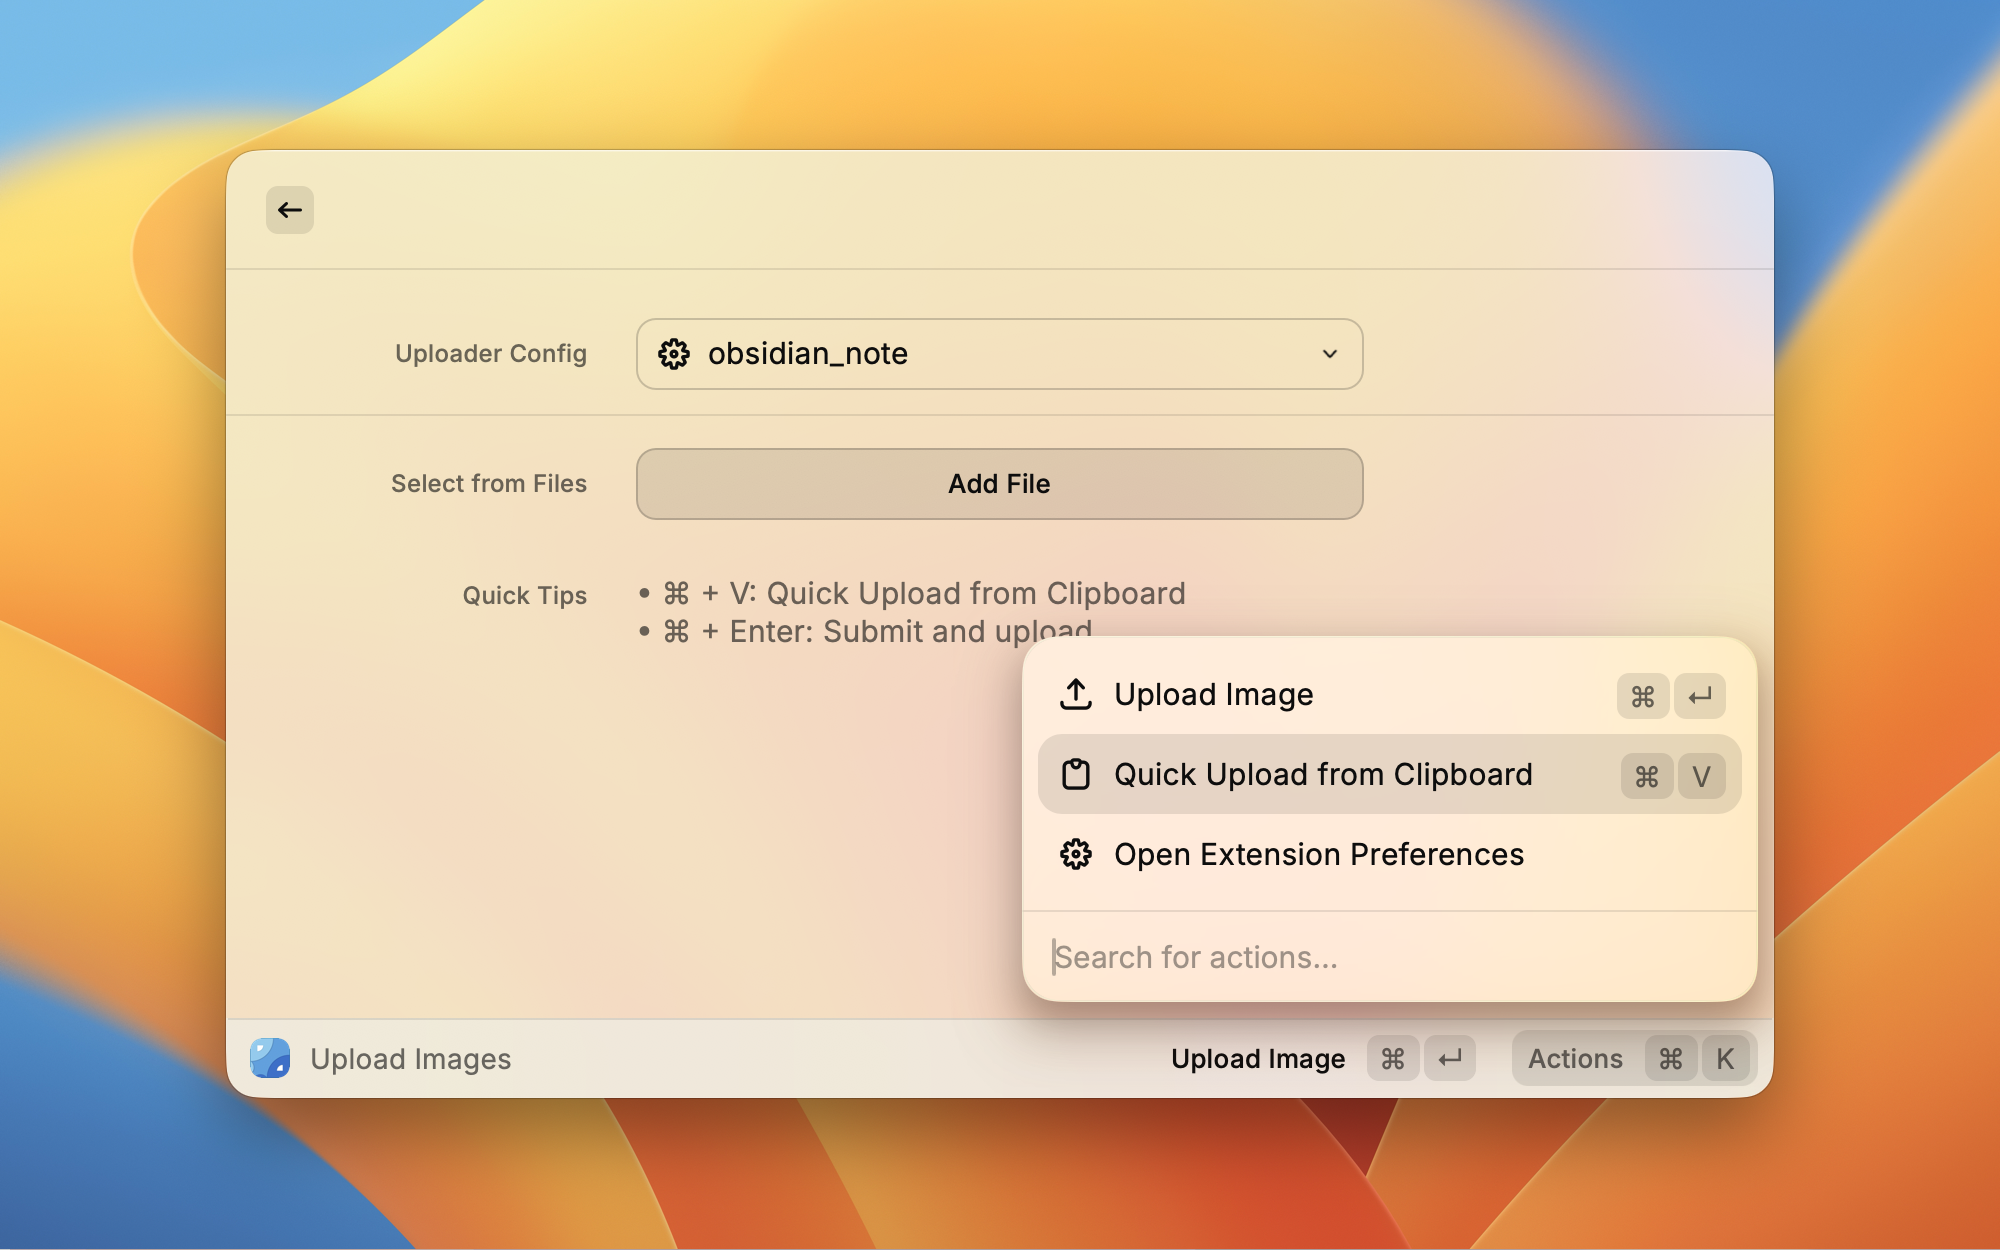
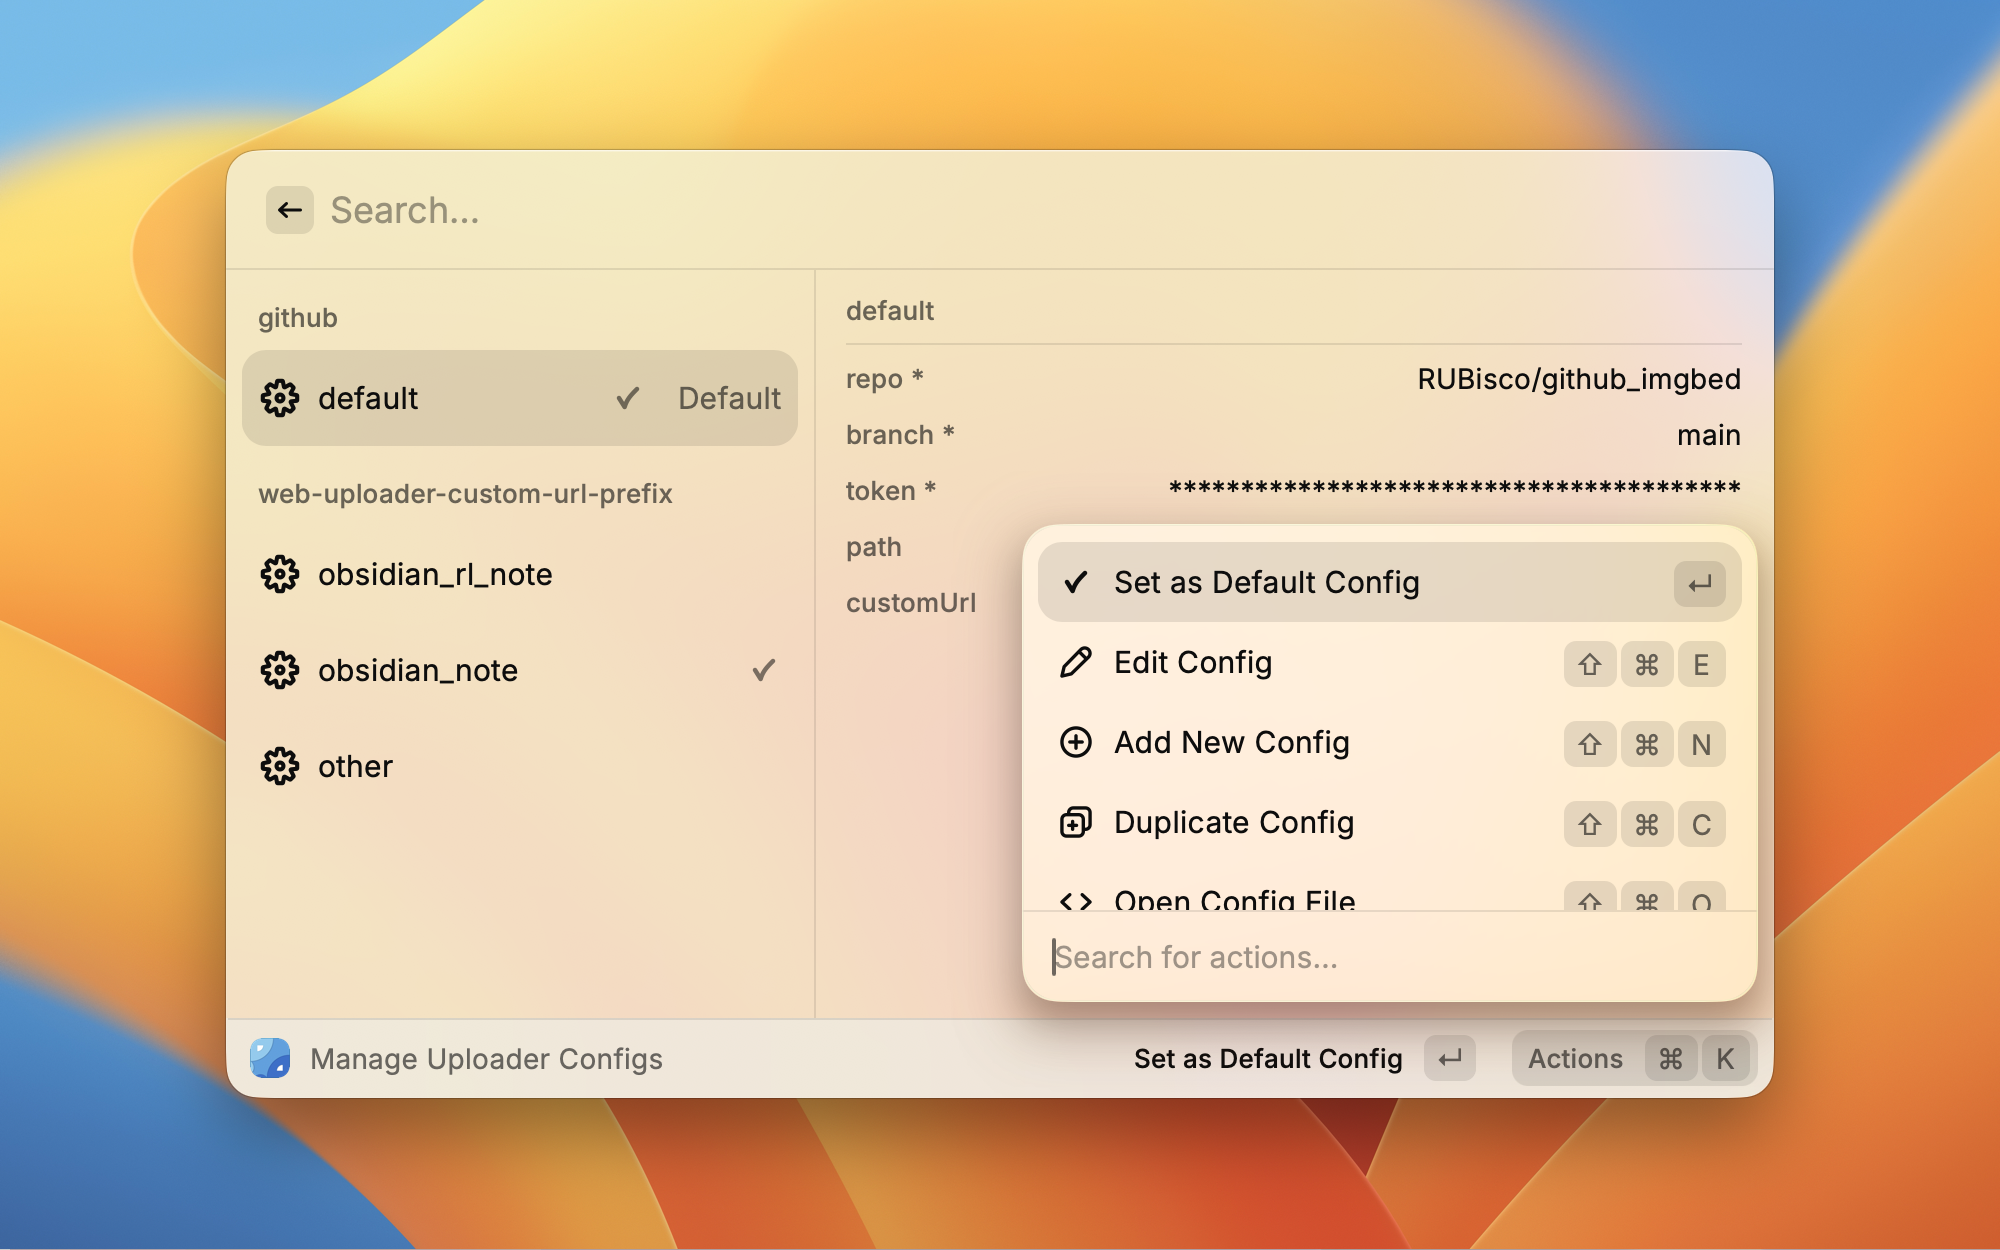
update docs

diff --git a/README.md b/README.md
@@ -1,83 +1,85 @@
 # PicGo for Raycast
 
-[简体中文](./media/README-zh.md)
+<a href="https://www.raycast.com/rubisco0211/picgo" title="Install picgo Raycast Extension"><img src="https://www.raycast.com/rubisco0211/picgo/install_button@2x.png?v=1.1" height="64" style="height: 64px;" alt="" /></a>
 
-A [Raycast](https://www.raycast.com/) extension to upload images to image hosts using [PicGo-Core](https://github.com/PicGo/PicGo-Core) API.
+A [Raycast](https://www.raycast.com/) extension to upload images to image hosts using [PicGo-Core](https://github.com/PicGo/PicGo-Core).
+
+If you speak Chinese, check out [中文文档](https://github.com/RUBisco0211/raycast-extension-picgo/blob/master/media/README-zh.md).
 
 <p align="center">
-  <img src="./media/header.png" alt="">
+<img src="./media/header.png" alt="Header">
 </p>
 
-## How It Works
+## Features
 
-This extension integrates with `picgo` library to handle image uploads.
+- **Upload Images**: Seamlessly upload images from your clipboard or file selection.
+- **Multi-Format Export**: View upload results and copy links in various formats (URL, Markdown, HTML, UBB).
+- **Multi-Config Support**: Switch between different uploader configurations easily within Raycast.
+- **Plugin Management**: Search, install, update, and uninstall PicGo plugins directly from Raycast via NPM.
+- **Uploader Configuration**: Manage your uploader configurations (Url, Access Key, Secret Key, etc.).
 
-- **Configuration Management**: The extension reads your PicGo config file (`~/.picgo/config.json`) to detect installed uploaders and their configurations.You can choose which uploader and config to use from the dropdown menu. The extension persists your selection in **Raycast LocalStorage** and won't change your local config file.
 
-- **Select and Send Images**: Select images (allow multi selection) from file picker or paste from clipboard `Cmd+V`. .
+## Prerequisites
 
-- **Copy Result**: Choose your preferred format (URL, Markdown, HTML, or UBB) and copy to clipboard.
+- **NPM**: This extension requires Node.js. Ensure `npm` is accessible. You can configure the `NPM Path` in the extension preferences if it's not in the default location.
 
-## ScreenShots
+## Commands
 
-### Command `Upload Images` and Actions
+### Upload Images
+
+Select images from the file picker or paste from the clipboard (`Cmd+V`) to upload.
+
+- **Switch Config**: Use the dropdown menu to select the uploader configuration. The config will be remember (in **Raycast LocalStorage** without directly changing your local config file) once you upload some images with it.
+- **Upload from Files or Clipboard**: Supporting multi-image upload from files or clipboard (press `Cmd+V`).
 
 ![Command](./media/picgo-1.png)
 
-### Uploader Configs
+- **Copy Result**: Multi-formats copying supported.
 
-![Config](./media/picgo-2.png)
+![Command](./media/picgo-2.png)
 
-### Shortcuts
+### Manage Uploader Configs
 
-![Shortcuts](./media/picgo-3.png)
+View and manage all your uploader configurations.
 
-### Export Page
+- **Manage**:Add, duplicate, edit or delete a configuration. Press `enter` to set as default uploader config.
 
-![Export](./media/picgo-4.png)
+![Config](./media/picgo-3.png)
 
-## Prerequisites: PicGo Installation and Configuration
+![Config](./media/picgo-4.png)
 
-```shell
-# install picgo-cli
-npm install -g picgo
-# or
-yarn global add picgo
+### Search Plugins
 
+Search for PicGo plugins on NPM to extend uploader functionality.
 
-# install picgo plugins
-picgo install [name]
-# or use npm
-npm install picgo-plugin-[name]
+![Config](./media/picgo-6.png)
 
+### Manage Plugins
 
-# configuration of uploader
-picgo set uploader
-# and
-picgo use uploader
-```
+View installed plugins. You can update, uninstall, or configure them.
 
-For more, check out:
+![Config](./media/picgo-5.png)
 
-- [PicGo-Cli installation](https://docs.picgo.app/core/guide/getting-started#install-globally)
-- [PicGo plugin installation](https://docs.picgo.app/core/guide/commands#install-add)
-- [PicGO-Cli configuration](https://docs.picgo.app/core/guide/config)
+## Preferences
 
-## Keyboard Shortcuts
+| Preference | Description | Default |
+| ---------------- | -------------------------------------------------- | ------- |
+| Upload Timeout | Maximum time (in ms) to wait for upload completion. | 30000 |
+| Upload Proxy | Custom proxy address for uploading images (e.g., `http://127.0.0.1:7890`). | - |
+| NPM Path | Path to the NPM executable (e.g., `/usr/local/bin`). Do not include `/npm` in the path. | - |
+| NPM Proxy | Proxy address for installing plugins via NPM. | - |
+| NPM Mirror | Custom NPM registry mirror (e.g., `https://registry.npmmirror.com`). | - |
 
-| Action                      | Shortcut    |
-| --------------------------- | ----------- |
-| Quick upload from clipboard | `Cmd+V`     |
-| Submit and upload           | `Cmd+Enter` |
-| Copy current format         | `Cmd+C`     |
+## Troubleshooting
 
-## Extension Preferences
+- **"NPM not found"**: Check the `NPM Path` in extension preferences. Run `which npm` in your terminal to find the correct path.
+- **Plugin installation fails**: Try setting a valid `NPM Mirror` or `NPM Proxy` if you have network issues.
 
-| Setting        | Description                                        | Default |
-| -------------- | -------------------------------------------------- | ------- |
-| Upload Timeout | Maximum time (in ms) to wait for upload completion | 30000   |
+## For More
 
-## Limitations
+checkout:
+- [PicGo-Core Documentation](https://docs.picgo.app/core/)
 
-- It does **NOT** support PicGo plugin management - install/remove plugins via PicGo directly
-- It does **NOT** support configuring uploaders - configure them with `picgo set uploader`.
+## License
+
+MIT

diff --git a/media/README-zh.md b/media/README-zh.md
@@ -1,83 +1,83 @@
 # PicGo for Raycast
 
-[English](../README.md)
+<a href="https://www.raycast.com/rubisco0211/picgo" title="Install picgo Raycast Extension"><img src="https://www.raycast.com/rubisco0211/picgo/install_button@2x.png?v=1.1" height="64" style="height: 64px;" alt="" /></a>
 
-一个使用 [PicGo-Core](https://github.com/PicGo/PicGo-Core) API 上传图片到图床的 [Raycast](https://www.raycast.com/) 扩展。
+一个基于 [PicGo-Core](https://github.com/PicGo/PicGo-Core) 的 [Raycast](https://www.raycast.com/) 图片上传扩展。
+
 
 <p align="center">
-  <img src="./header.png" alt="">
+<img src="./header.png" alt="Header">
 </p>
 
-## 工作原理
+## 功能特性
 
-该扩展集成 `picgo` 库来处理图片上传。
+- **图片上传**：无缝支持剪贴板粘贴或文件选择上传。
+- **多格式导出**：支持查看上传历史，并一键复制 URL、Markdown、HTML、UBB 等多种格式。
+- **多配置切换**：在 Raycast 内轻松切换不同的图床配置。
+- **插件管理**：直接通过 NPM 搜索、安装、更新和卸载 PicGo 插件来拓展 uploader type。
+- **配置管理**：在 Raycast 中管理图床配置。
 
-- **配置管理**：读取你的 PicGo 配置文件 (`~/.picgo/config.json`) 以检测已安装的上传配置。从下拉菜单中选择要使用的上传配置。你选择的配置会被持久化存储在 **Raycast 的 LocalStorage** 中，不会修改本地配置文件。
+## 前置要求
 
-- **选择并发送图片**：从文件选择器中选择图片（支持多选），或从剪贴板粘贴 `Cmd+V`。
+- **NPM**：本扩展依赖 Node.js 环境。请确保你的系统已安装 `npm` 且可访问。如果 `npm` 不在默认路径，你可以在扩展设置中配置 `NPM Path`。
 
-- **复制结果**：选择返回格式（URL、Markdown、HTML 或 UBB）并复制到剪贴板。
+## 命令
 
-## 截图
+### 上传图片 (Upload Images)
 
-### `Upload Images` 命令面板
+选择文件或直接粘贴剪贴板图片（`Cmd+V`）即可上传。
+
+- **切换配置**：通过下拉菜单快速切换图床配置。一旦使用某个配置上传了图片，扩展会记住你的选择（保存在 **Raycast LocalStorage** 中，不会直接修改你的本地配置文件）。
+- **文件与剪贴板上传**：支持多文件选择或剪贴板上传（ `Cmd+V`）。
 
 ![Command](./picgo-1.png)
 
-### 上传配置
+- **复制结果**：支持多种链接格式复制。
 
-![Config](./picgo-2.png)
+![Command](./picgo-2.png)
 
-### 快捷键
+### 管理图床配置 (Manage Uploader Configs)
 
-![Shortcuts](./picgo-3.png)
+查看并管理你所有的图床配置。
 
-### 导出页面
+- **管理功能**：支持添加、复制、编辑或删除配置。按 `Enter` 键可将其设为默认上传配置。
 
-![Export](./picgo-4.png)
+![Config](./picgo-3.png)
 
-## 前置条件：PicGo 安装和配置
+![Config](./picgo-4.png)
 
-```shell
-# 安装 picgo-cli
-npm install -g picgo
-# 或
-yarn global add picgo
+### 搜索插件 (Search Plugins)
 
+在 NPM 上搜索 PicGo 插件以扩展上传功能。
 
-# 安装 picgo 插件
-picgo install [name]
-# 或使用 npm
-npm install picgo-plugin-[name] -g
+![Config](./picgo-6.png)
 
+### 管理插件 (Manage Plugins)
 
-# 上传配置
-picgo set uploader
-# 设置默认使用
-picgo use uploader
-```
+查看已安装的插件列表。支持更新、卸载或添加一个该上传器类型的上传配置。
 
-更多内容请参考：
+![Config](./picgo-5.png)
 
-- [PicGo-Cli 安装指南](https://docs.picgo.app/core/guide/getting-started#install-globally)
-- [PicGo 插件安装](https://docs.picgo.app/core/guide/commands#install-add)
-- [PicGo-Cli 配置指南](https://docs.picgo.app/core/guide/config)
+## 扩展设置
 
-## 键盘快捷键
+| 设置项 | 描述 | 默认值 |
+| ---------------- | -------------------------------------------------- | ------- |
+| Upload Timeout | 上传图片超时时间（毫秒）。 | 30000 |
+| Upload Proxy | 上传图片时使用的代理地址（例如 `http://127.0.0.1:7890`）。 | - |
+| NPM Path | NPM 可执行文件的所在目录（例如 `/usr/local/bin`）。**注意：路径中不要包含最后的 `/npm`**。 | - |
+| NPM Proxy | 通过 NPM 安装插件时使用的代理地址。 | - |
+| NPM Mirror | 自定义 NPM 镜像源（例如 `https://registry.npmmirror.com`）。 | - |
 
-| 操作             | 快捷键      |
-| ---------------- | ----------- |
-| 从剪贴板快速上传 | `Cmd+V`     |
-| 提交并上传       | `Cmd+Enter` |
-| 复制当前格式     | `Cmd+C`     |
+## 常见问题
 
-## 扩展配置
+- **"NPM not found"**：请检查扩展设置中的 `NPM Path`。你可以在终端运行 `which npm` 来查看正确的路径。
+- **插件安装失败**：如果遇到网络问题，尝试配置有效的 `NPM Mirror` 或 `NPM Proxy`。
 
-| 设置           | 描述                 | 默认值 |
-| -------------- | -------------------- | ------ |
-| Upload Timeout | 上传超时时间（毫秒） | 30000  |
+## 更多
 
-## 限制
+参考：
+- [PicGo-Core 文档](https://docs.picgo.app/core/)
 
-- **不支持** PicGo 插件管理，直接通过 PicGo 安装/卸载插件
-- **不支持** GUI 配置上传器，使用 `picgo set uploader` 命令进行配置
+## 许可证
+
+MIT

diff --git a/CHANGELOG.md b/CHANGELOG.md
@@ -1,6 +1,14 @@
 # Picgo Changelog
 
-## [Initial Version] - {PR_MERGE_DATE}
+## [New Commands and Preferences] - {PR_MERGE_DATE}
+
+- The config you selected in command `Uploader Images` now will only be remember in **Raycast LocalStorage** once you use this config to conduct an upload.
+- Add command `Manage Uploader Configs` to view, edit, duplicate and delete your configurations of uploaders or create a new one within Raycast.
+- Add command `Search Plugins` to view and download existing PicGo plugins via NPM.
+- Add command `Manage Plugins` to view, update and uninstall local plugins.
+- Add preferences for upload proxy, NPM proxy, NPM path and NPM Mirror.
+
+## [Initial Version] - 2026-02-09
 
 - Add command `Upload Images`, supports local or clipboard images uploading via **PicGo**.
 - Remembering your uploader configuration with **Raycast LocalStorage**.
